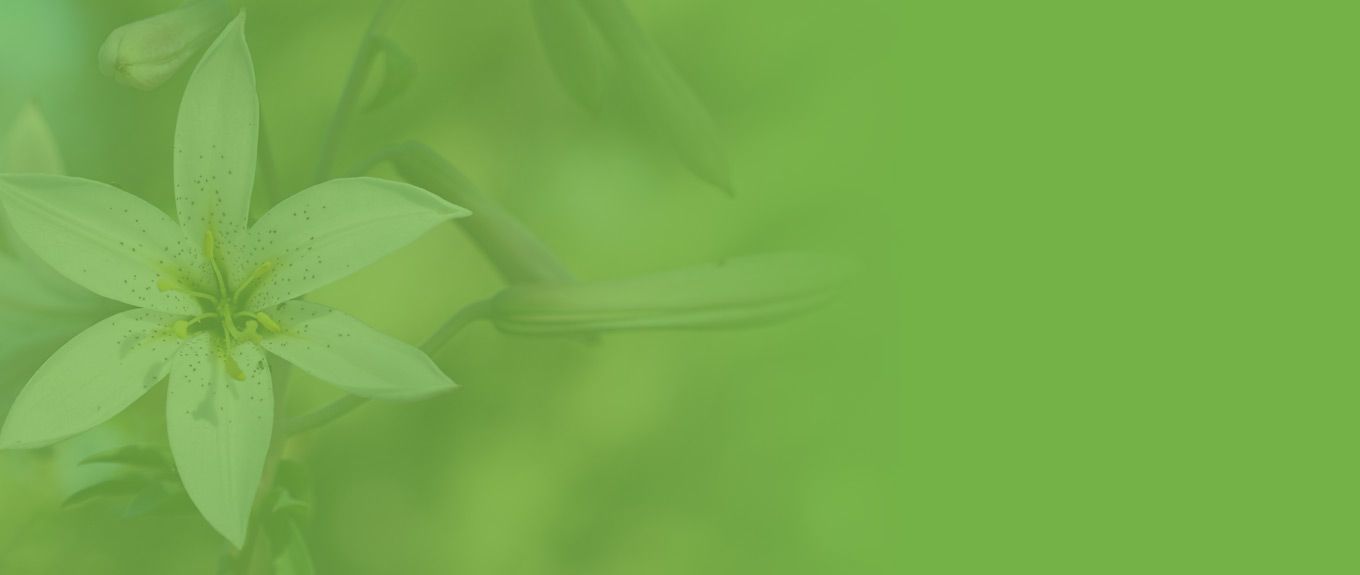
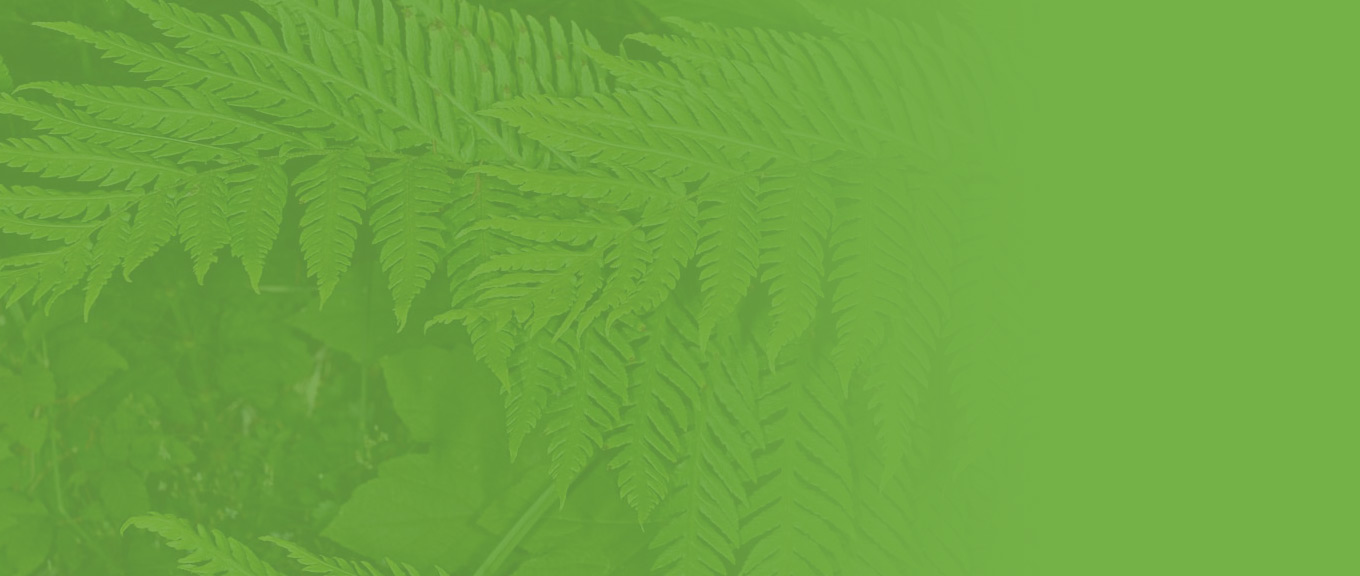
Additional design changes, including: -change to quicksearch in header -moving boxes around on home page -changing background image behind the whois section

diff --git a/css/main.css b/css/main.css
@@ -579,19 +579,27 @@ ul.square-bullets {
 	padding: 20px 20px 0 20px;
 	text-align: right;
 }
-.search-wrapper form {
+.search-wrapper #quicksearch {
+	background: url("../images/layout/quicksearch-bg.jpg") top right no-repeat;
+	background-size: cover;
+	padding: 10px;
 	display: inline-block;
 }
-#quicksearch input {
+.search-wrapper #quicksearch input {
 	border: 1px solid #531D94;
 	width: 200px;
 	padding: 5px;
 }
-#quicksearch button {
+.search-wrapper #quicksearch button {
 	border: none;
-	background: #A711B0;
-	padding: 7px 9px;
+	background: #3C641E;
+	padding: 6px 8px;
 	color: white;
+	border: 1px solid white;
+}
+.search-wrapper #quicksearchtext {
+	text-align: left;
+	color: #ffffff;
 }
 
 /*--------------------------------------------------------------

diff --git a/index.php b/index.php
@@ -33,51 +33,46 @@ $(document).ready(function () {
 <div class="inner-content">
     <div class="home-boxes">
         <a href="#" class="home-box mapping-box">
-                <img src="images/layout/mapping-box.jpg" alt="Mapping">
-                <h3>Mapping</h3>
-                <div class="box-overlay">
-                    <div class="centered">Mapping box overlay content here</div>
-                </div>
+            <img src="images/layout/mapping-box.jpg" alt="Mapping">
+            <h3>Mapping</h3>
+            <div class="box-overlay">
+                <div class="centered">Mapping box overlay content here</div>
+            </div>
         </a>
         <a href="#" class="home-box key-box">
-
-                <img src="images/layout/interactive-key-box.jpg" alt="Interactive Key">
-                <h3>Interactive Key</h3><div class="box-overlay">
-                    <div class="centered">Mapping box overlay content here</div>
-                </div>
-
-        </a>
-        <a href="#" class="home-box image-box">
-
-                <img src="images/layout/image-search-box.jpg" alt="Image Search">
-                <h3>Image Search</h3><div class="box-overlay">
-                    <div class="centered">Image Search box overlay content here</div>
-                </div>
-
-        </a>
-        <a href="#" class="home-box herbarium-box">
-
-                <img src="images/layout/herbarium-box.jpg" alt="OSU Herbarium">
-                <h3>OSU Herbarium</h3><div class="box-overlay">
-                    <div class="centered">Search records of all digitized specimens of the OSU Herbaria, including non-Oregon taxa and type specimens.</div>
-                </div>
-
-        </a>
-        <a href="#" class="home-box garden-box">
-
-                <img src="images/layout/garden-with-natives-box.jpg" alt="Garden with Natives">
-                <h3>Garden with Natives</h3><div class="box-overlay">
-                    <div class="centered">Garden with Natives box overlay content here</div>
-                </div>
-
+            <img src="images/layout/interactive-key-box.jpg" alt="Interactive Key">
+            <h3>Interactive Key</h3>
+            <div class="box-overlay">
+                <div class="centered">Mapping box overlay content here</div>
+            </div>
         </a>
         <a href="#" class="home-box plant-box">
-
-                <img src="images/layout/plant-inventories-box.jpg" alt="Plant Inventories">
-                <h3>Plant Inventories</h3><div class="box-overlay">
-                    <div class="centered">Plant Inventories box overlay content here</div>
-                </div>
-
+            <img src="images/layout/plant-inventories-box.jpg" alt="Plant Inventories">
+            <h3>Plant Inventories</h3>
+            <div class="box-overlay">
+                <div class="centered">Plant Inventories box overlay content here</div>
+            </div>
+        </a>
+        <a href="#" class="home-box herbarium-box">
+            <img src="images/layout/herbarium-box.jpg" alt="OSU Herbarium">
+            <h3>OSU Herbarium</h3>
+            <div class="box-overlay">
+                <div class="centered">Search records of all digitized specimens of the OSU Herbaria, including non-Oregon taxa and type specimens.</div>
+            </div>
+        </a>
+        <a href="#" class="home-box garden-box">
+            <img src="images/layout/garden-with-natives-box.jpg" alt="Garden with Natives">
+            <h3>Garden with Natives</h3>
+            <div class="box-overlay">
+                <div class="centered">Garden with Natives box overlay content here</div>
+            </div>
+        </a>
+        <a href="#" class="home-box image-box">
+            <img src="images/layout/image-search-box.jpg" alt="Image Search">
+            <h3>Image Search</h3>
+            <div class="box-overlay">
+                <div class="centered">Image Search box overlay content here</div>
+            </div>
         </a>
     </div>
 </div>

diff --git a/header.php b/header.php
@@ -38,9 +38,9 @@
 		        <?php
 		        //---------------------------QUICK SEARCH SETTINGS---------------------------------------
 		        //Title text that will appear.
-		        $searchText = '';
+		        $searchText = 'Plant Taxon Search';
 		        //Placeholder text that will appear.
-		        $placeholderText = 'Search Taxonomy';
+		        $placeholderText = "Enter plant's taxon name";
 
 		        //Text that will appear on search button.
 		        $buttonText = '<i class="fa fa-search"></i>';
@@ -65,7 +65,7 @@
                             <li><a href="#">Plant Inventories</a></li>
                         </ul>
                     </li>
-                    <li class="menu-item-has-children"><a href="#">Sitemap</a>
+                    <li class="menu-item-has-children"><a href="#">Resources</a>
                         <ul>
                             <li><a href="#">Links</a></li>
                             <li><a href="#">Newsletter</a></li>
